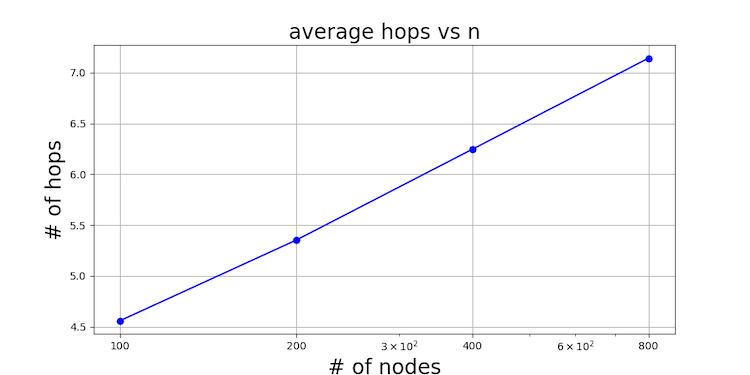
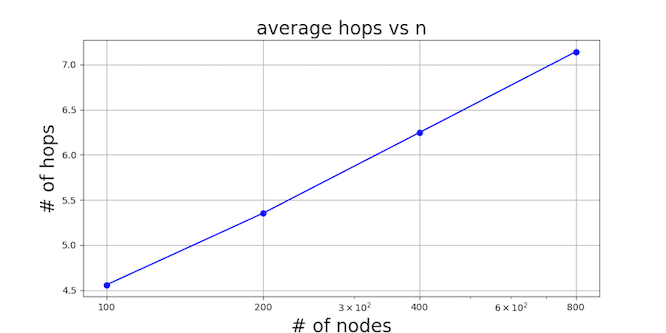
resize figs

diff --git a/README.md b/README.md
@@ -19,6 +19,8 @@ sgsim is written in Python and uses [pandas](https://pandas.pydata.org/) for sta
 
 ![Graph](https://github.com/abelab/sgsim/raw/main/images/sg_hops_vs_n.png)
 
+![Histogram](https://github.com/abelab/sgsim/raw/main/images/sg_hops_hist.png)
+
 ## License
 MIT License
 
